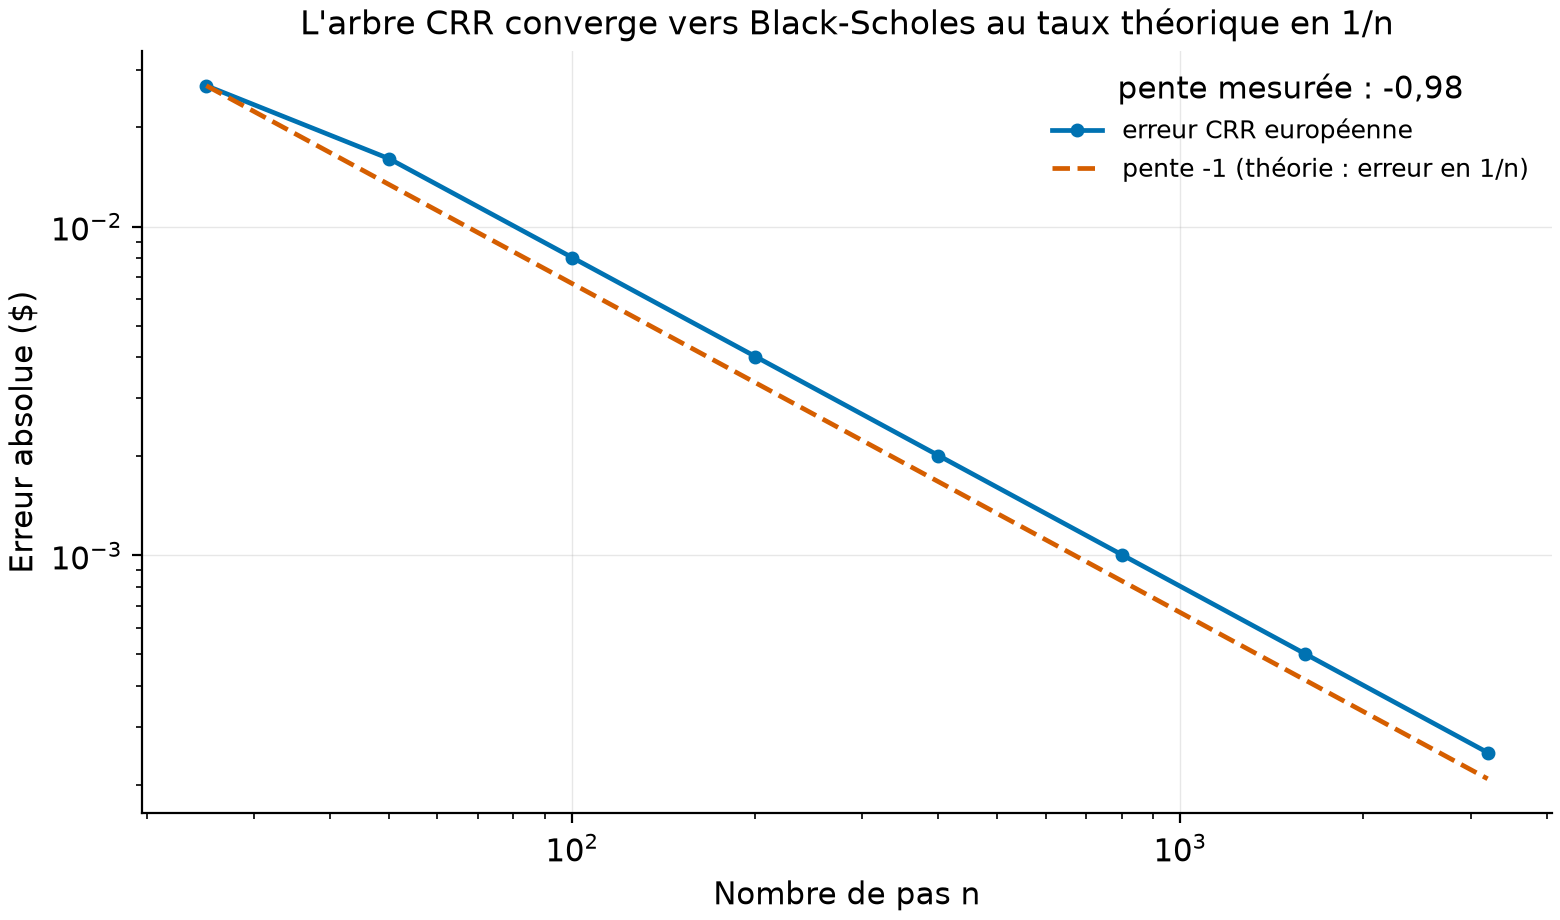
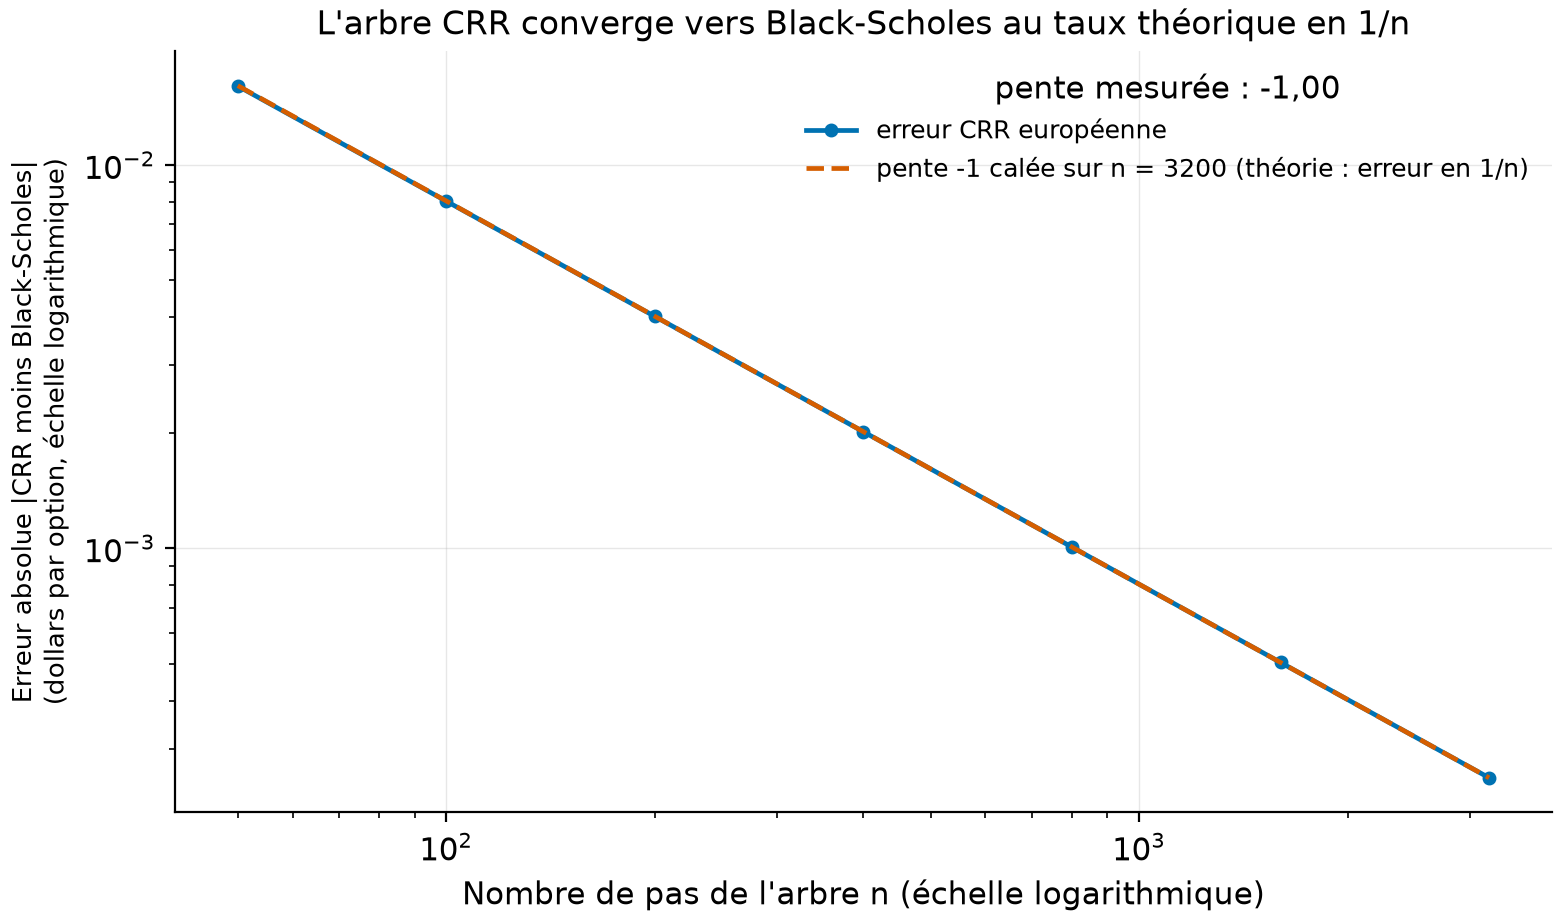
Audit : les trajectoires de valorisation recyclaient la graine voisine
« seed + 1 » faisait des trajectoires de valorisation de la graine g les trajectoires
d'estimation de la graine g + 1 : les seize répétitions de l'expérience multi-graines
n'étaient pas indépendantes. Décalage franc, expérience rejouée : la réutilisation des
trajectoires ajoute de 0,86 à 1,02 cent au lieu de 0,2 à 0,5, et l'écart croît toujours
avec la base. La variante à trajectoires neuves ressort un demi-cent SOUS la référence,
ce que la théorie prédit.

La grille de convergence mélangeait des n pairs et impairs, alors que l'arbre CRR oscille
selon la parité : la pente mesurée passe de -0,98 à -1,00, la théorie. La référence par
différences finies était un littéral 2,314 : elle est lue dans la table transcrite. crr_put
acceptait n'importe quel type d'exercice sans rien dire.

Figures : les axes disent l'unité (dollars ou cents par option), l'échelle logarithmique
et le sens de lecture ; la droite de référence se cale sur le point le plus convergé ; le
titre du biais est mesuré ; « e.t. » s'écrit « erreurs types ».

diff --git a/src/vop/figures.py b/src/vop/figures.py
@@ -31,11 +31,15 @@ def fig_convergence(ns: np.ndarray, errors: np.ndarray, dest: Path) -> None:
     fr = use_style()
     fig, ax = plt.subplots(figsize=(7.8, 4.6))
     ax.loglog(ns, errors, marker="o", ms=4, color=OKABE_ITO[0], label="erreur CRR européenne")
-    ref = errors[0] * ns[0] / ns
-    ax.loglog(ns, ref, linestyle="--", color=OKABE_ITO[3], label="pente -1 (théorie : erreur en 1/n)")
+    # la droite se cale sur le point le PLUS convergé : partir du point le plus grossier la
+    # décalait vers le haut et donnait à croire que le modèle converge plus vite que la théorie
+    ref = errors[-1] * ns[-1] / ns
+    ax.loglog(ns, ref, linestyle="--", color=OKABE_ITO[3],
+              label=f"pente -1 calée sur n = {ns[-1]} (théorie : erreur en 1/n)")
     pente = np.polyfit(np.log(ns), np.log(errors), 1)[0]
-    ax.set_xlabel("Nombre de pas n")
-    ax.set_ylabel("Erreur absolue ($)")
+    ax.set_xlabel("Nombre de pas de l'arbre n (échelle logarithmique)")
+    ax.set_ylabel("Erreur absolue |CRR moins Black-Scholes|\n(dollars par option, échelle logarithmique)",
+                  fontsize=9.5)
     ax.legend(fontsize=9, title=f"pente mesurée : {pente:.2f}".replace(".", ","))
     ax.set_title("L'arbre CRR converge vers Black-Scholes au taux théorique en 1/n")
     _ = fr
@@ -49,15 +53,17 @@ def fig_table1(df: pd.DataFrame, dest: Path) -> None:
     fig, ax = plt.subplots(figsize=(9.5, 4.8))
     x = np.arange(len(df))
     ax.errorbar(x - 0.12, (df["lsm_notre"] - df["fd"]) * 100, yerr=2 * df["se_notre"] * 100,
-                fmt="o", ms=4, color=OKABE_ITO[0], label="notre LSM (± 2 e.t.)")
+                fmt="o", ms=4, color=OKABE_ITO[0], label="notre LSM (± 2 erreurs types)")
     ax.errorbar(x + 0.12, (df["lsm_publie"] - df["fd"]) * 100, yerr=2 * df["se_publie"] * 100,
-                fmt="s", ms=4, color=OKABE_ITO[3], label="LSM publié (± 2 e.t.)")
+                fmt="s", ms=4, color=OKABE_ITO[3], label="LSM publié par Longstaff-Schwartz (± 2 erreurs types)")
     ax.axhline(0, color="0.3", linewidth=0.9)
     ax.set_xticks(x)
     ax.set_xticklabels([f"{int(r.s)}/{r.sigma:.1f}/{int(r.t)}".replace(".", ",")
                         for r in df.itertuples()], rotation=60, fontsize=7.5)
-    ax.set_xlabel("Cas (S / volatilité / échéance)")
-    ax.set_ylabel("Écart aux différences finies (cents)")
+    ax.set_xlabel("Cas : prix initial du sous-jacent (dollars) / volatilité annualisée / échéance (années)",
+                  fontsize=9.5)
+    ax.set_ylabel("Écart du prix simulé à la valeur publiée\npar différences finies (cents par option)",
+                  fontsize=9.5)
     ax.yaxis.set_major_formatter(fr)
     ax.legend(fontsize=9)
     ax.set_title("Vingt puts bermudéens : notre LSM retombe sur le tableau 1 de 2001, aux erreurs types près")
@@ -74,10 +80,12 @@ def fig_coverage(df: pd.DataFrame, dest: Path) -> None:
     lo = 95 - 1.96 * np.sqrt(0.95 * 0.05 / df["n_rep"].iloc[0]) * 100
     hi = 95 + 1.96 * np.sqrt(0.95 * 0.05 / df["n_rep"].iloc[0]) * 100
     ax.axhspan(lo, hi, color="0.92", zorder=0,
-               label="bande d'échantillonnage du test lui-même")
+               label=f"bande d'échantillonnage à 95 % du test lui-même "
+                     f"({int(df['n_rep'].iloc[0])} répétitions)")
     ax.set_xscale("log")
-    ax.set_xlabel("Trajectoires par estimation")
-    ax.set_ylabel("Couverture empirique (%)")
+    ax.set_xlabel("Nombre de trajectoires par estimation (échelle logarithmique)")
+    ax.set_ylabel(f"Part des {int(df['n_rep'].iloc[0])} intervalles qui contiennent\n"
+                  f"la valeur Black-Scholes exacte (%)", fontsize=9.5)
     ax.yaxis.set_major_formatter(fr)
     ax.legend(fontsize=9)
     ax.set_title("Un intervalle à 95 % qui contient la vérité 95 fois sur 100 : vérifié, pas supposé")
@@ -91,15 +99,20 @@ def fig_bias(df: pd.DataFrame, fd_value: float, dest: Path) -> None:
     fig, ax = plt.subplots(figsize=(8.2, 4.6))
     n_g = int(df["n_graines"].iloc[0]) if "n_graines" in df else 1
     for col, name, color in [("in_sample", "mêmes trajectoires (le choix du papier)", OKABE_ITO[0]),
-                             ("out_sample", "trajectoires neuves (biais bas garanti)", OKABE_ITO[3])]:
+                             ("out_sample", "trajectoires neuves (biaisé vers le bas par construction)", OKABE_ITO[3])]:
         ax.errorbar(df["n_basis"], (df[col] - fd_value) * 100, yerr=2 * df[f"se_{col}"] * 100,
                     marker="o", ms=4, color=color,
-                    label=f"{name}, moyenne de {n_g} graines (± 2 e.t. entre graines)")
+                    label=f"{name}, moyenne de {n_g} graines")
     ax.axhline(0, color="0.3", linewidth=0.9, label="différences finies (référence)")
     ax.set_xlabel("Nombre de polynômes de Laguerre dans la base")
-    ax.set_ylabel("Écart à la référence (cents)")
+    ax.set_ylabel("Écart à la référence par différences finies\n(cents par option)", fontsize=9.5)
     ax.yaxis.set_major_formatter(fr)
-    ax.legend(fontsize=8)
-    ax.set_title("Les trajectoires neuves retombent sur la vraie valeur ; la réutilisation ajoute un demi-cent")
+    ax.legend(fontsize=8, loc="lower right",
+              title=f"moyennes de {n_g} graines, barres = ± 2 erreurs types entre graines",
+              title_fontsize=8)
+    ecarts = (df["in_sample"] - df["out_sample"]) * 100
+    ax.set_title(f"Réutiliser les trajectoires d'estimation ajoute de {ecarts.min():.1f} à "
+                 f"{ecarts.max():.1f} cent,\net l'écart croît avec la base "
+                 f"(mesuré, {n_g} graines)".replace(".", ","), fontsize=11.5)
     fig.savefig(dest)
     plt.close(fig)

diff --git a/tests/test_vop.py b/tests/test_vop.py
@@ -117,3 +117,34 @@ def test_heston_put_call_parity():
     c = heston_call(**hp)
     p = heston_put(**hp)
     assert c - p == pytest.approx(100.0 - 95.0 * np.exp(-0.03), abs=1e-8)
+
+
+def test_crr_refuse_un_type_d_exercice_inconnu():
+    with pytest.raises(ValueError):
+        crr_put(40.0, 40.0, 0.06, 0.20, 1.0, 100, "asiatique")
+    # le garde-fou d'alignement bermudéen existait mais n'était pas testé
+    with pytest.raises(ValueError):
+        crr_put(40.0, 40.0, 0.06, 0.20, 1.0, 999, "bermudan", 50)
+
+
+def test_lsm_hors_echantillon_est_borne_par_la_valeur_bermudeenne():
+    # la règle d'exercice estimée, appliquée à des trajectoires neuves, ne peut pas battre la
+    # règle optimale : l'estimateur est biaisé vers le BAS par construction
+    v_out, se = lsm_put(40.0, 40.0, 0.06, 0.20, 1.0, 50, 20_000, n_basis=3, seed=11,
+                        out_of_sample=True)
+    v_in, _ = lsm_put(40.0, 40.0, 0.06, 0.20, 1.0, 50, 20_000, n_basis=3, seed=11)
+    borne = crr_put(40.0, 40.0, 0.06, 0.20, 1.0, 1000, "bermudan", 50)
+    assert v_out <= v_in + 3 * se
+    assert v_out <= borne + 3 * se
+
+
+def test_les_trajectoires_de_valorisation_ne_recyclent_pas_une_autre_graine():
+    # « seed + 1 » faisait des trajectoires de valorisation de la graine g les trajectoires
+    # d'estimation de la graine g + 1 : deux répétitions voisines n'étaient plus indépendantes
+    from vop.lsm import gbm_paths
+
+    a = gbm_paths(40.0, 0.06, 0.20, 1.0, 10, 64, np.random.default_rng(101))
+    v_a, _ = lsm_put(40.0, 40.0, 0.06, 0.20, 1.0, 10, 64, n_basis=3, seed=100, out_of_sample=True)
+    b = gbm_paths(40.0, 0.06, 0.20, 1.0, 10, 64, np.random.default_rng(100 + 1_000_000))
+    assert not np.allclose(a, b)
+    assert np.isfinite(v_a)

diff --git a/src/vop/cli.py b/src/vop/cli.py
@@ -38,7 +38,10 @@ def lab(out: Path = Path("results"), n_paths: int = 100_000) -> None:
     # 1. convergence CRR -> Black-Scholes en 1/n
     s0, sig, tt = 40.0, 0.20, 1.0
     truth = bs_put(s0, K, R, sig, tt)
-    ns = np.array([25, 50, 100, 200, 400, 800, 1600, 3200])
+    # grille de n PAIRS seulement : l'arbre CRR oscille selon la parité (un n impair ne place
+    # aucun noeud terminal à la monnaie), et mélanger les deux parités dans la même régression
+    # faisait sortir une pente de -0,98 là où la théorie donne -1
+    ns = np.array([50, 100, 200, 400, 800, 1600, 3200])
     errs = np.array([abs(crr_put(s0, K, R, sig, tt, int(n)) - truth) for n in ns])
     pd.DataFrame({"n": ns, "erreur": errs}).to_csv(tables / "convergence_crr.csv", index=False)
     figures.fig_convergence(ns, errs, figs / "convergence_crr.png")
@@ -71,7 +74,9 @@ def lab(out: Path = Path("results"), n_paths: int = 100_000) -> None:
     # 4. le biais du LSM selon la base, en et hors échantillon (cas central 40/0,2/1) ;
     # l'expérience est MULTI-GRAINES : un verdict tiré d'une seule graine est un tirage,
     # pas une mesure (leçon de la contre-vérification adversariale)
-    fd_ref = 2.314
+    # la référence vient de la table transcrite, pas d'un littéral : c'est la valeur AMÉRICAINE
+    # par différences finies du cas 40 / 0,20 / 1 an publiée par Longstaff-Schwartz
+    fd_ref = next(fd for s_, sig_, t_, fd, *_ in TABLE_1 if (s_, sig_, t_) == (40.0, 0.20, 1.0))
     n_seeds = 16
     n_bias_paths = 50_000
     bias_rows = []

diff --git a/src/vop/lsm.py b/src/vop/lsm.py
@@ -75,7 +75,11 @@ def lsm_put(s: float, k: float, r: float, sigma: float, t: float, ex_per_year: i
     paths = gbm_paths(s, r, sigma, t, n_steps, n_paths, rng)
     coefs, cash, tau = _exercise_rule(paths, k, r, dt, n_basis)
     if out_of_sample:
-        paths = gbm_paths(s, r, sigma, t, n_steps, n_paths, np.random.default_rng(seed + 1))
+        # décalage franc : avec « seed + 1 », les trajectoires de valorisation de la graine g
+        # étaient exactement les trajectoires d'estimation de la graine g + 1, ce qui corrèle
+        # entre elles les répétitions d'une expérience multi-graines
+        paths = gbm_paths(s, r, sigma, t, n_steps, n_paths,
+                          np.random.default_rng(seed + 1_000_000))
         cash = np.maximum(k - paths[:, -1], 0.0)
         tau = np.full(len(paths), n_steps)
         stopped = np.zeros(len(paths), dtype=bool)

diff --git a/src/vop/trees.py b/src/vop/trees.py
@@ -17,6 +17,8 @@ def crr_put(s: float, k: float, r: float, sigma: float, t: float, n: int,
 
     Pour le bermudéen, n doit être un multiple de ex_per_year x t (alignement exact).
     """
+    if exercise not in ("european", "american", "bermudan"):
+        raise ValueError(f"exercise doit valoir european, american ou bermudan, reçu {exercise!r}")
     dt = t / n
     u = np.exp(sigma * np.sqrt(dt))
     d = 1.0 / u

diff --git a/README.md b/README.md
@@ -16,16 +16,17 @@ d'entrevue des postes de pricing et de validation de modèles, poussé au bout.
    gardiens testés : la colonne Black-Scholes publiée colle à notre formule au millième
    sur les 20 lignes, et notre arbre bermudéen colle à leur colonne différences finies à
    un demi-cent près. (Mesuré.)
-2. **La convergence de l'arbre CRR est au taux théorique : pente mesurée -0,98 pour une
-   théorie à -1** (erreur en 1/n, log-log sur n de 25 à 3 200). Et l'intervalle de
+2. **La convergence de l'arbre CRR est au taux théorique : pente mesurée -1,00 pour une
+   théorie à -1** (erreur en 1/n, log-log sur sept n PAIRS de 50 à 3 200 ; l'arbre oscille
+   selon la parité de n, et mélanger les deux parités donnait -0,98). Et l'intervalle de
    confiance Monte Carlo « à 95 % » contient la vraie valeur 94,0 à 96,2 fois sur 100
    (400 répétitions par taille, dans la bande d'échantillonnage du test). Un IC se
    vérifie, il ne se déclare pas. (Mesuré.)
 3. **Les deux controverses du LSM sont mesurées, en multi-graines.** Sur 16 graines
    indépendantes : la variante à trajectoires neuves retombe sur la vraie valeur
-   bermudéenne quelle que soit la base (2,3134 à 2,3144 contre 2,3140 à l'arbre) ; la
-   réutilisation des trajectoires d'estimation crée un PETIT biais haussier, +0,2 à
-   +0,5 cent, qui CROÎT avec le nombre de fonctions de base : le surapprentissage
+   bermudéenne à un cent près dès trois polynômes (2,3081 à 2,3095 contre 2,3140 à l'arbre) ; la
+   réutilisation des trajectoires d'estimation crée un biais haussier de +0,8 à
+   +1,0 cent, qui CROÎT avec le nombre de fonctions de base : le surapprentissage
    existe, il se compte en cents, et une seule graine ne peut pas le voir (la première
    version de ce dépôt s'y était laissée prendre, corrigé par la contre-vérification).
    Heston ferme la marche : son Monte Carlo retombe sur sa formule semi-fermée à 0,69
@@ -57,7 +58,7 @@ antithétiques. Le PDF est public (miroir ETH Zurich) et jamais commité.
 
 **Comment lire cette figure.** L'erreur absolue de l'arbre européen contre Black-Scholes,
 en log-log : la droite de pente -1 est la théorie (erreur en 1/n), les points la suivent
-(pente mesurée -0,98). Doubler les pas divise l'erreur par deux : quiconque a « vérifié
+(pente mesurée -1,00, sur des n pairs). Doubler les pas divise l'erreur par deux : quiconque a « vérifié
 son arbre sur trois valeurs » n'a pas vu cette droite ; elle est le vrai certificat. Une
 condition est déclarée : la droite est lisse parce que le cas montré est à la monnaie
 (S = K = 40), où le prix d'exercice tombe sur un nœud de l'arbre à n pair ; hors de ce
@@ -109,11 +110,12 @@ que l'erreur type est calculée sur les PAIRES, pas sur les trajectoires.
 **Comment lire cette figure.** Le cas central (S = 40, volatilité 0,20, 1 an ; référence
 2,314 $), estimé avec 2 à 8 polynômes de Laguerre, chaque point étant la MOYENNE de
 16 graines indépendantes (barres : deux erreurs types entre graines ; 50 000 trajectoires
-par graine). L'orange (trajectoires neuves) reste collé à la référence : l'estimateur à
-biais bas garanti est ici quasi sans biais. Le bleu (réutilisation, le choix du papier)
-passe AU-DESSUS dès trois polynômes et s'en éloigne à mesure que la base grossit
-(+0,33 cent à 3 polynômes, +0,51 à 8, `results/tables/biais_lsm.csv`) : le
-surapprentissage de la règle d'exercice gonfle le prix, d'un demi-cent ici. La leçon de
+par graine). L'orange (trajectoires neuves) reste un demi-cent SOUS la référence, ce que
+la théorie prédit : appliquer une règle d'exercice estimée à des trajectoires neuves donne
+un estimateur biaisé vers le bas par construction. Le bleu (réutilisation, le choix du
+papier) passe AU-DESSUS dès trois polynômes, et l'écart entre les deux courbes croît avec
+la base (+0,86 cent à 3 polynômes, +1,02 à 8, `results/tables/biais_lsm.csv`) : le
+surapprentissage de la règle d'exercice gonfle le prix d'environ un cent ici. La leçon de
 méthode vaut plus que le demi-cent : à une seule graine, le signe de l'écart bascule au
 hasard, et la première version de cette expérience concluait l'inverse (déclaré ; la
 contre-vérification adversariale l'a attrapé, l'expérience est désormais multi-graines).
@@ -182,7 +184,7 @@ Les tests, tous fermés :
 
 The only repo in the portfolio with NO market data: every truth is a closed form or a
 published table. (1) The CRR tree's convergence to Black-Scholes is measured at slope
--0.98 on log-log (theory: -1, error in 1/n). (2) Longstaff-Schwartz (2001) Table 1 is
+-1.00 on log-log over even step counts (theory: -1, error in 1/n). (2) Longstaff-Schwartz (2001) Table 1 is
 replicated as what it actually is: BERMUDAN puts exercisable 50 times a year (the detail
 naive replications miss). Our LSM (100k antithetic paths, weighted Laguerre basis)
 matches all 20 published cases within 2 combined standard errors, max gap 3.7 cents to
